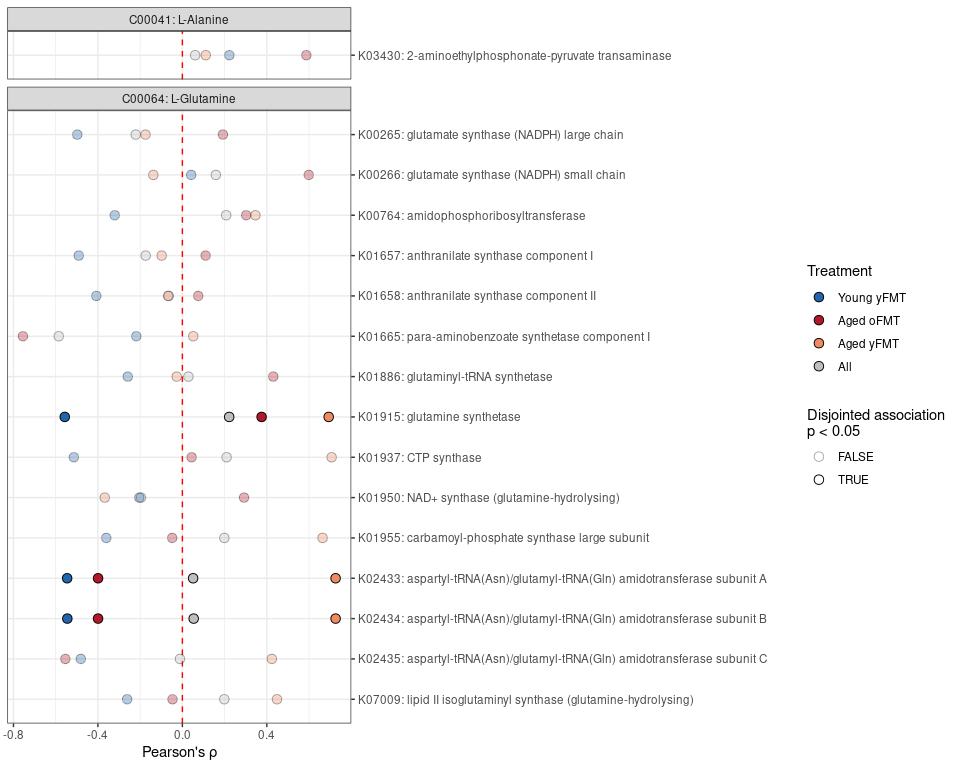
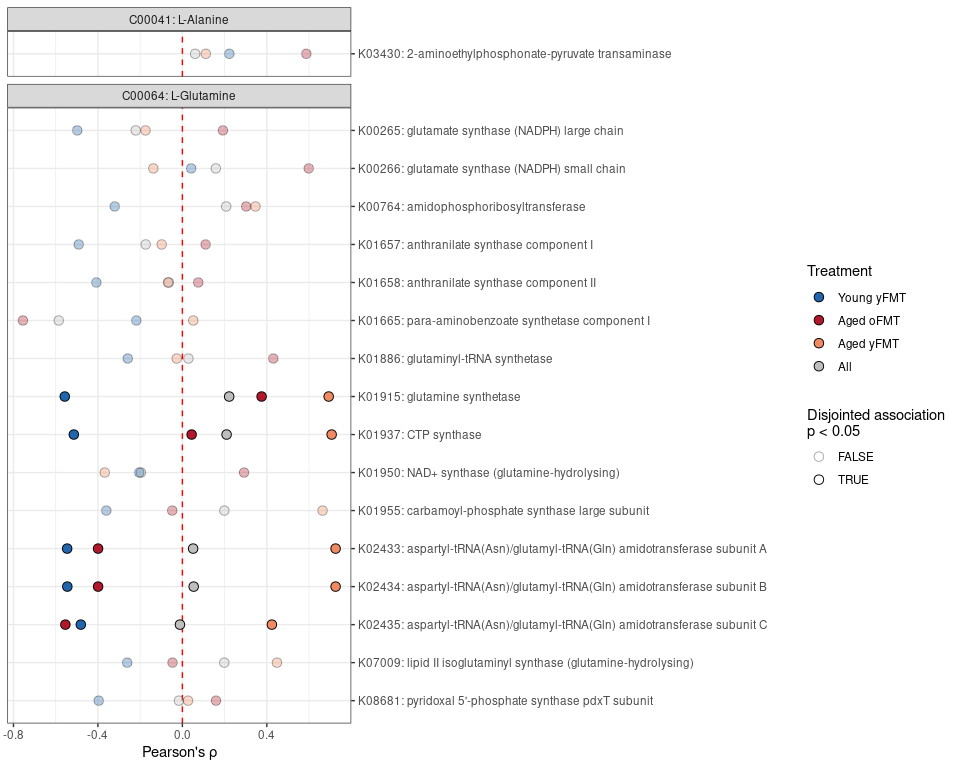
update

diff --git a/README.md b/README.md
@@ -191,7 +191,7 @@ anansiLong <- spinToLong(anansi_output = anansi_out, translate = T,
 #Now it's ready to be plugged into ggplot2, though let's clean up a bit more. 
 
 #Only consider interactions where the entire model fits well enough. 
-anansiLong <- anansiLong[anansiLong$model_full_q.values < 0.2,]
+anansiLong <- anansiLong[anansiLong$model_full_q.values < 0.1,]
 ```
 
 ## Plot the results
